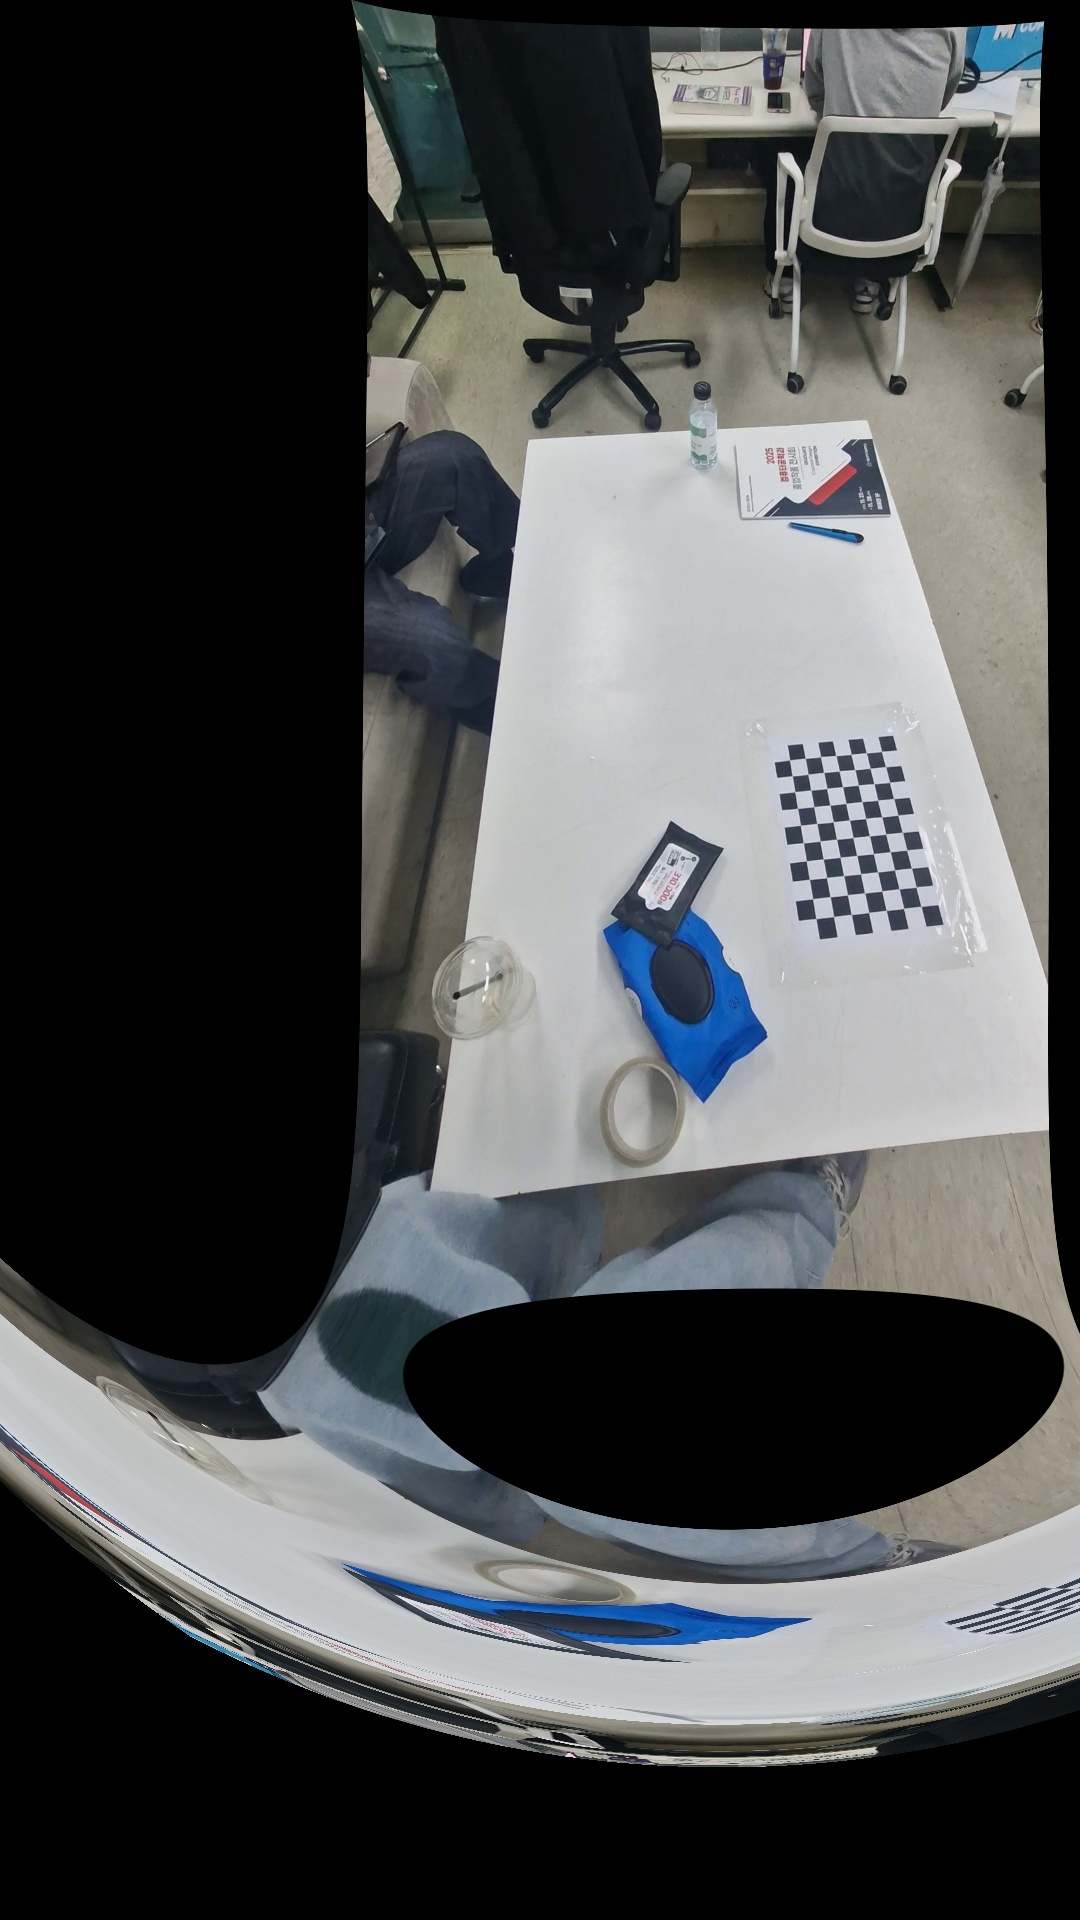
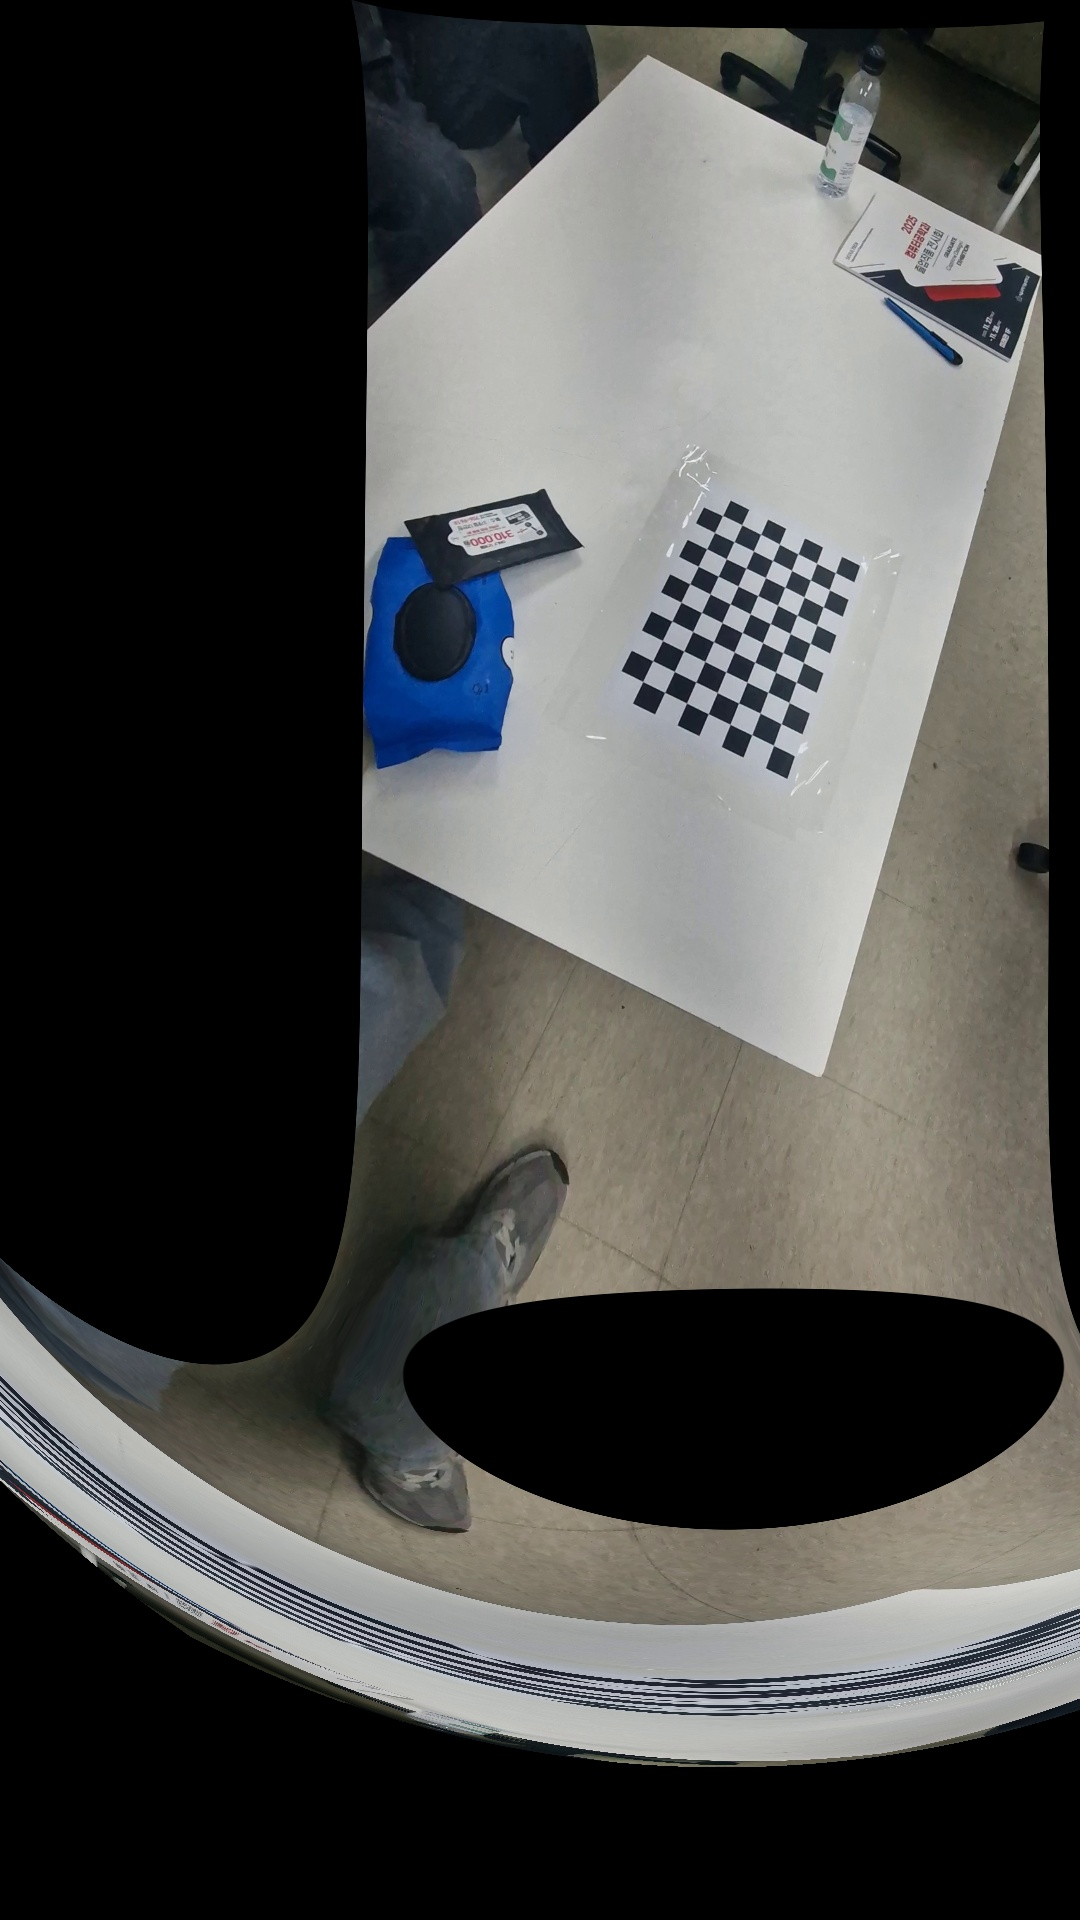
Add undistorted images, comparison script, and update input path

diff --git a/src/make_comparison.py b/src/make_comparison.py
@@ -1,0 +1,19 @@
+import cv2
+import numpy as np
+
+img1 = cv2.imread("data/selected/frame_04.jpg")      # 원본
+img2 = cv2.imread("data/output/undistorted.jpg")     # 보정 후
+
+h = min(img1.shape[0], img2.shape[0])
+img1 = cv2.resize(img1, (int(img1.shape[1] * h / img1.shape[0]), h))
+img2 = cv2.resize(img2, (int(img2.shape[1] * h / img2.shape[0]), h))
+
+combined = np.hstack((img1, img2))
+
+cv2.putText(combined, "Original", (20, 40),
+            cv2.FONT_HERSHEY_SIMPLEX, 1.0, (0, 255, 0), 2)
+cv2.putText(combined, "Undistorted", (img1.shape[1] + 20, 40),
+            cv2.FONT_HERSHEY_SIMPLEX, 1.0, (0, 255, 0), 2)
+
+cv2.imwrite("results/undistortion_comparison.jpg", combined)
+print("Saved: results/undistortion_comparison.jpg")

diff --git a/src/distortion_correction.py b/src/distortion_correction.py
@@ -14,7 +14,7 @@ dist_coeffs = np.array([
 ], dtype=np.float32)
 
 # ===== 입력 / 출력 경로 =====
-input_image_path = "data/selected/frame_63.jpg"
+input_image_path = "data/selected/frame_04.jpg"
 output_dir = "data/output"
 os.makedirs(output_dir, exist_ok=True)
 
